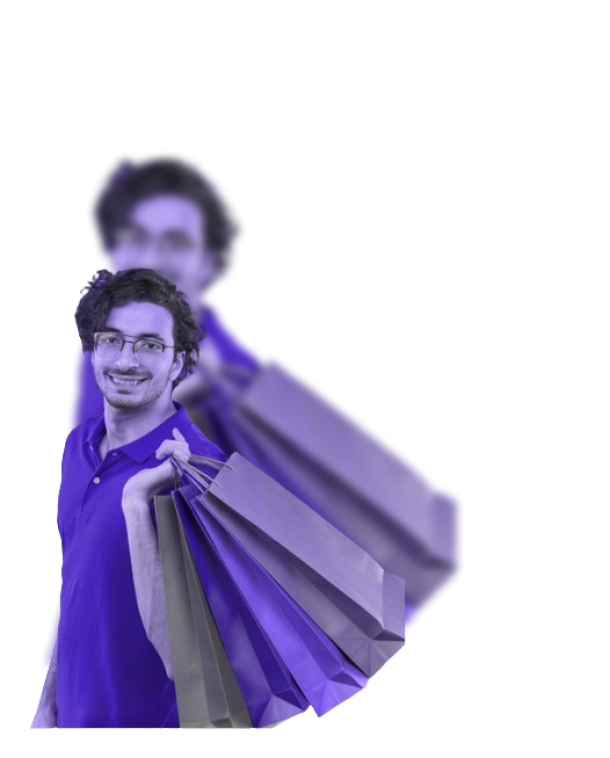
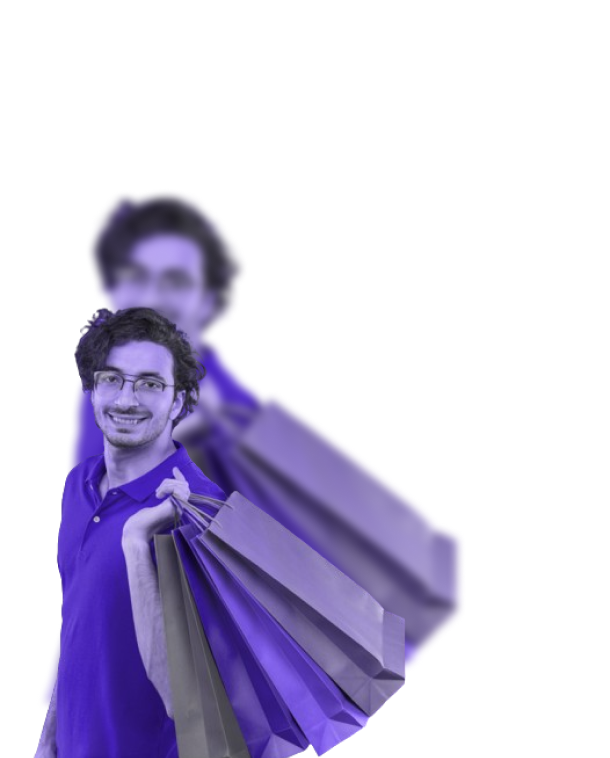
Added Login page and fixed some picture issues

Changed region(s): [[0.0311, 0.1821, 0.7787, 1.0]]

diff --git a/src/components/Login.jsx b/src/components/Login.jsx
@@ -1,0 +1,30 @@
+import React from "react";
+
+export const Login = () => {
+  return (
+    <div>
+      <div
+        className="grid grid-cols-2 relative min-h-[700px] max-w-screen-xl w-10/12 h-5/6 mx-auto my-20 rounded-3xl overflow-hidden"
+        style={{
+          background: "linear-gradient(-135deg, #4120A9, #FFFFFF 70%)",
+        }}
+      >
+        <div className="grid-rows-2">
+          <div className="w-full h-1/3 z-50 p-10 absolute mt-10">
+            <h1 className="text-6xl font-bold">Welcome back!</h1>
+            <h2 className="m-4 text-3xl font-bold">
+              Continue your shopping adventure!
+            </h2>
+          </div>
+          <div className=" overflow-hidden ">
+            <img
+              src="src/Assets/man.png"
+              alt="man image"
+              className="absolute -bottom-0 left-10 h-[85%] object-contain"
+            ></img>
+          </div>
+        </div>
+      </div>
+    </div>
+  );
+};

diff --git a/src/App.jsx b/src/App.jsx
@@ -1,14 +1,20 @@
-import React from 'react'
-import Navbar from "./components/Navbar"
-import { SignUp } from './components/SignUp'
+import React from "react";
+import Navbar from "./components/Navbar";
+import { SignUp } from "./components/SignUp";
+import { Login } from "./components/Login";
+import { Home } from "./components/Home";
 
 const App = () => {
   return (
     <div>
-      <Navbar/>
-      <SignUp/>
+      <Navbar />
+      <Home />
+      <div>
+        <Login />
+        <SignUp />
+      </div>
     </div>
-  )
-}
+  );
+};
 
-export default App
+export default App;

diff --git a/src/components/Navbar.jsx b/src/components/Navbar.jsx
@@ -6,7 +6,7 @@ const Navbar = () => {
   const [isOpen, setIsOpen] = useState(false);
 
   return (
-    <nav className="bg-[#4120A9] p-4">
+    <nav className="bg-[#4120A9] p-4 sticky top-0 z-50">
       <div className="container">
         <span className="hidden md:flex mx-auto container justify-between items-center">
           {/* Logo */}

diff --git a/src/components/Home.jsx b/src/components/Home.jsx
@@ -1,0 +1,9 @@
+import React from 'react'
+
+export const Home = () => {
+  return (
+    <div>
+        
+    </div>
+  )
+}
